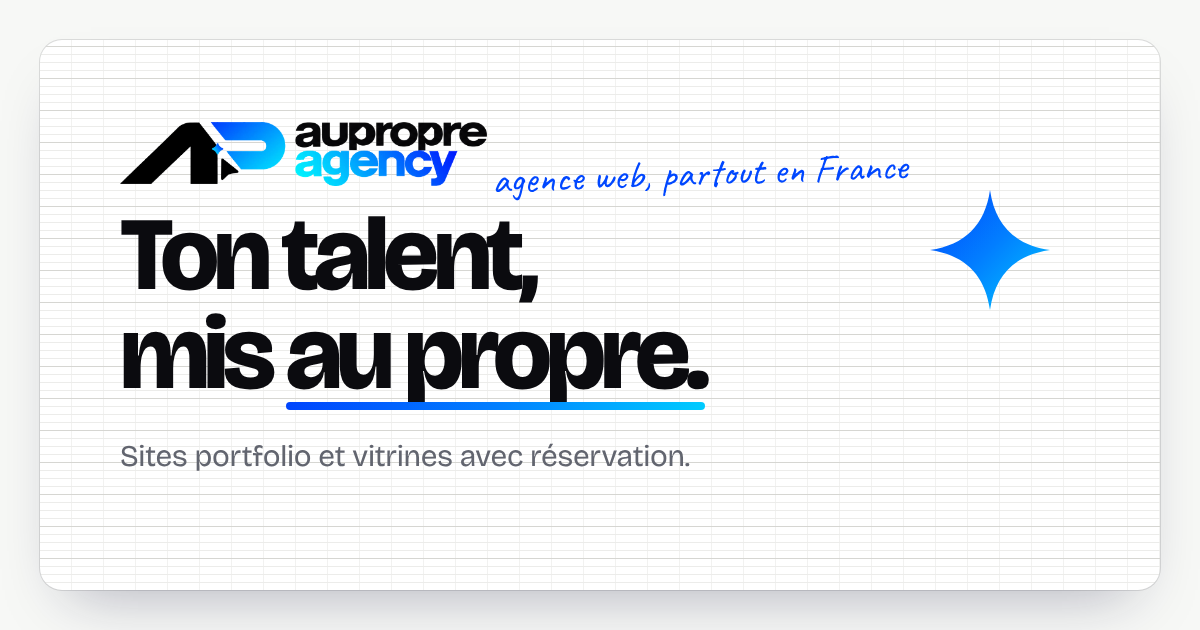
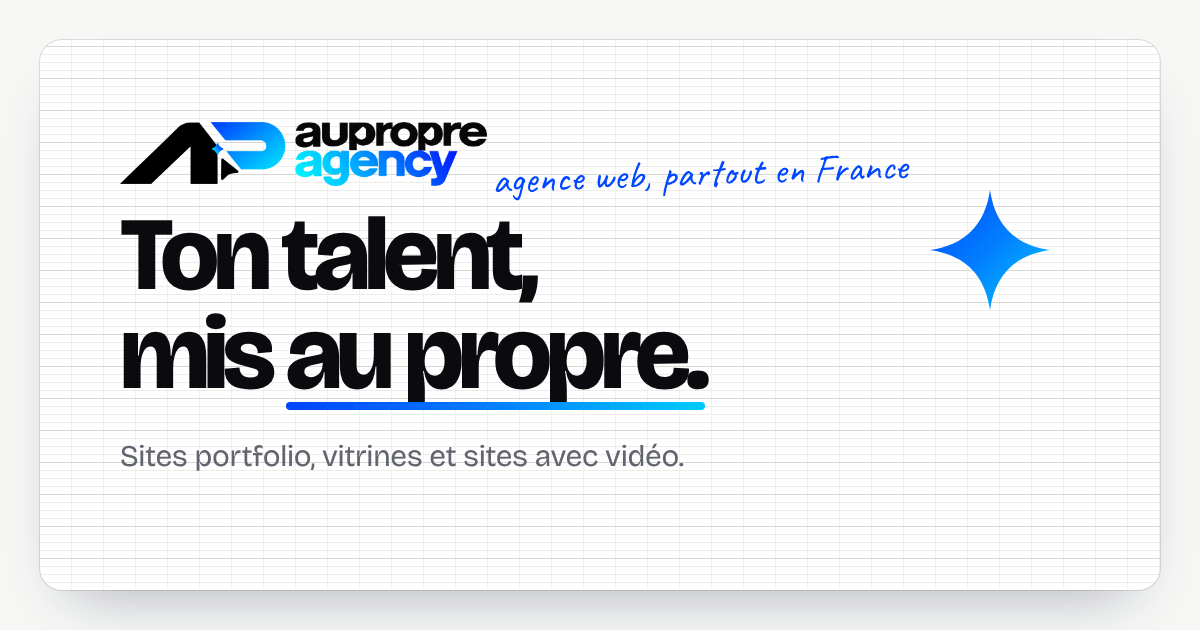
Nouvel accueil : 3 cartes brouillon → propre, cible élargie, Site + Vidéo mis en avant
Claude-Session: https://claude.ai/code/session_01BznTFMr6tEdU7bzJhxVeNe

Changed region(s): [[0.2467, 0.6937, 0.5858, 0.754]]

diff --git a/public/index.html b/public/index.html
@@ -5,20 +5,20 @@
 <meta name="viewport" content="width=device-width, initial-scale=1">
 <title>AuPropre · Agence web pour créatifs et indépendants</title>
[1 lines of base64/hex data omitted]
-<meta name="description" content="Sites portfolio et vitrines avec réservation pour les créatifs, coachs et indépendants de la culture urbaine. Partout en France.">
+<meta name="description" content="Sites portfolio, vitrines avec réservation et sites avec vidéo motion design : pour montrer ton travail, être réservé en ligne ou faire comprendre ton service. Partout en France.">
 <link rel="canonical" href="https://aupropreagency.fr/">
 <meta property="og:type" content="website">
 <meta property="og:locale" content="fr_FR">
 <meta property="og:site_name" content="AuPropre">
 <meta property="og:title" content="AuPropre · Agence web pour créatifs et indépendants">
-<meta property="og:description" content="Sites portfolio et vitrines avec réservation pour les créatifs, coachs et indépendants de la culture urbaine. Partout en France.">
+<meta property="og:description" content="Sites portfolio, vitrines avec réservation et sites avec vidéo motion design : pour montrer ton travail, être réservé en ligne ou faire comprendre ton service. Partout en France.">
 <meta property="og:url" content="https://aupropreagency.fr/">
 <meta property="og:image" content="https://aupropreagency.fr/og.png">
 <meta property="og:image:width" content="1200">
 <meta property="og:image:height" content="630">
 <meta property="og:image:alt" content="AuPropre, agence web : Ton talent, mis au propre.">
 <meta name="twitter:card" content="summary_large_image">
-<script type="application/ld+json">{"@context": "https://schema.org", "@type": "ProfessionalService", "name": "AuPropre", "description": "Sites portfolio et vitrines avec réservation pour les créatifs, coachs et indépendants de la culture urbaine. Partout en France.", "url": "https://aupropreagency.fr/", "image": "https://aupropreagency.fr/og.png", "email": "aupropre.agency@gmail.com", "areaServed": "FR", "priceRange": "290 € – 590 €"}</script>
+<script type="application/ld+json">{"@context": "https://schema.org", "@type": "ProfessionalService", "name": "AuPropre", "description": "Sites portfolio, vitrines avec réservation et sites avec vidéo motion design : pour montrer ton travail, être réservé en ligne ou faire comprendre ton service. Partout en France.", "url": "https://aupropreagency.fr/", "image": "https://aupropreagency.fr/og.png", "email": "aupropre.agency@gmail.com", "areaServed": "FR", "priceRange": "290 € – 590 €"}</script>
 <link rel="preconnect" href="https://fonts.googleapis.com">
 <link rel="preconnect" href="https://fonts.gstatic.com" crossorigin>
 <link href="https://fonts.googleapis.com/css2?family=Bricolage+Grotesque:opsz,wght@12..96,300..800&family=Caveat:wght@500;700&family=Unbounded:wght@600;800&family=Inter:wght@400;600&family=Cormorant+Garamond:ital,wght@0,500;1,500;1,600&family=Jost:wght@500&family=Fraunces:ital,wght@0,600;1,600&family=Manrope:wght@400;600&family=Anton&display=swap" rel="stylesheet">
@@ -100,6 +100,7 @@
   .pv-court{display:none}
   .offre.offre-video .marque-video{background:rgba(255,255,255,.16);color:#fff}
   .offre.offre-video .marque-video span{color:#fff}
+  .offre.offre-video .marque-video{line-height:1.4;display:grid;gap:10px}
   .pastille-video{position:relative;animation:pvHalo 3.2s ease-out infinite}
   .pv-new{position:relative;overflow:hidden;background:linear-gradient(115deg,#0044FD,#027FFF 40%,#00CCFF 60%,#0044FD);background-size:220% 100%;animation:pvFond 4s ease-in-out infinite alternate}
   .pv-new::before{content:"";position:absolute;inset:0;background:linear-gradient(100deg,transparent 30%,rgba(255,255,255,.65) 50%,transparent 70%);transform:translateX(-120%);animation:pvReflet 3.2s ease-in-out infinite}
@@ -734,6 +735,104 @@
     .tel-zone{justify-content:flex-end;padding:0 24px 0 0}
     .note-propre{left:auto;right:30px;top:6%}
   }
+
+  /* ACCUEIL : 3 cartes besoins, chacune passe du brouillon au propre */
+  .scene{height:auto}
+  .scene-sticky{position:relative;height:auto;min-height:100vh;min-height:100svh;padding-bottom:56px}
+  .hc-pile{display:grid;gap:14px;align-content:center}
+  .hc-note{font-family:var(--hand);font-size:24px;color:var(--bic);transform:rotate(-2deg);justify-self:end;display:flex;align-items:center;gap:6px;margin-bottom:-2px;opacity:0;animation:hcEntre .7s cubic-bezier(.2,.8,.2,1) .15s forwards}
+  .hc-note .etoile{width:16px;height:16px}
+  .hc{display:grid;grid-template-columns:44% 1fr;gap:20px;align-items:center;padding:14px 22px 14px 14px;border-radius:22px;text-decoration:none;position:relative;opacity:0;transform:translateY(16px);animation:hcEntre .7s cubic-bezier(.2,.8,.2,1) forwards;animation-delay:calc(.25s + var(--i) * .12s);transition:transform .35s cubic-bezier(.2,.8,.2,1),box-shadow .35s}
+  @keyframes hcEntre{to{opacity:1;transform:none}}
+  .hc-travail{background:var(--encre);color:var(--papier)}
+  .hc-reserver{background:#fff;color:var(--encre);box-shadow:inset 0 0 0 1px var(--trait)}
+  .hc-comprendre{background:var(--grad);color:#fff}
+  .hc.actif,.hc:hover{transform:translateX(-6px)}
+  .hc-travail.actif,.hc-travail:hover{box-shadow:0 24px 40px -26px rgba(11,11,15,.7)}
+  .hc-reserver.actif,.hc-reserver:hover{box-shadow:inset 0 0 0 1.5px var(--bic),0 24px 40px -28px rgba(0,70,255,.45)}
+  .hc-comprendre.actif,.hc-comprendre:hover{box-shadow:0 24px 40px -24px rgba(0,70,255,.7)}
+  .hc h3{font-size:clamp(21px,1.8vw,26px);font-weight:800;letter-spacing:-.035em;line-height:1.02}
+  .hc-texte p{font-size:14px;line-height:1.4;opacity:.78;margin:6px 0 8px}
+  .hc-lien{font-family:var(--hand);font-size:21px;line-height:1}
+  .hc-lien em{font-style:normal;font-family:var(--sans);font-size:15px;display:inline-block;transition:transform .25s}
+  .hc:hover .hc-lien em,.hc.actif .hc-lien em{transform:translateX(4px)}
+  .hc-travail .hc-lien{color:#5FD3FF}.hc-reserver .hc-lien{color:var(--bic)}
+  /* la vignette : un bout de papier à carreaux */
+  .hc-anim{height:128px;border-radius:14px;position:relative;overflow:hidden;background-color:#FBFBF9;background-image:repeating-linear-gradient(0deg,transparent 0 15px,#E4E5EA 15px 16px),repeating-linear-gradient(90deg,transparent 0 15px,rgba(228,229,234,.6) 15px 16px)}
+  .hc-travail .hc-anim{background-color:#16161B;background-image:repeating-linear-gradient(0deg,transparent 0 15px,#24242B 15px 16px),repeating-linear-gradient(90deg,transparent 0 15px,rgba(36,36,43,.7) 15px 16px)}
+  .hc-comprendre .hc-anim{background-color:rgba(255,255,255,.12);background-image:repeating-linear-gradient(0deg,transparent 0 15px,rgba(255,255,255,.12) 15px 16px),repeating-linear-gradient(90deg,transparent 0 15px,rgba(255,255,255,.08) 15px 16px)}
+  .hc-brouillon{position:absolute;inset:0;padding:22px 14px 0 16px;font-family:var(--hand);font-size:18px;line-height:1.55;color:#7A7D88;transition:opacity .45s ease,transform .5s ease}
+  .hc-travail .hc-brouillon{color:#9A9CA8}
+  .hc-comprendre .hc-brouillon{color:rgba(255,255,255,.85)}
+  .hc-brouillon p{position:relative;width:fit-content;max-width:100%;white-space:nowrap}
+  .hc-brouillon p::before{content:"— "}
+  .hc-trait{position:absolute;left:-2%;top:36%;width:104%;height:12px;overflow:visible}
+  .hc-trait path{fill:none;stroke:var(--bic);stroke-width:2.2;stroke-linecap:round;stroke-dasharray:100;stroke-dashoffset:100;transition:stroke-dashoffset .45s cubic-bezier(.6,0,.3,1)}
+  .hc-travail .hc-trait path{stroke:#5FD3FF}.hc-comprendre .hc-trait path{stroke:#fff}
+  .hc.raye .hc-trait path{stroke-dashoffset:0}
+  .hc.raye .t2 path{transition-delay:.3s}
+  .hc-propre{position:absolute;inset:0;opacity:0;transform:scale(.94);transition:opacity .5s ease,transform .55s cubic-bezier(.2,.8,.2,1);display:grid;place-items:center}
+  .hc.propre .hc-brouillon{opacity:0;transform:translateY(-8px)}
+  .hc.propre .hc-propre{opacity:1;transform:none}
+  /* propre 1 : grille de projets */
+  .hp-grille{position:absolute;inset:12px;display:grid;grid-template-columns:repeat(3,1fr);gap:7px}
+  .hp-grille i{border-radius:7px;background:rgba(255,255,255,.1)}
+  .hc-travail.propre .hp-grille i{animation:hpTuile 4.8s ease-in-out infinite}
+  .hp-grille i:nth-child(2){animation-delay:.35s!important}.hp-grille i:nth-child(3){animation-delay:.7s!important}.hp-grille i:nth-child(4){animation-delay:1.05s!important}.hp-grille i:nth-child(5){animation-delay:1.4s!important}.hp-grille i:nth-child(6){animation-delay:1.75s!important}
+  @keyframes hpTuile{0%,100%{background:rgba(255,255,255,.1);transform:scale(1)}18%{background:linear-gradient(135deg,#0044FD,#00CCFF);transform:scale(1.05)}38%{background:rgba(255,255,255,.1);transform:scale(1)}}
+  /* propre 2 : créneau réservé */
+  .hp-cal{position:absolute;inset:14px 14px auto;display:grid;grid-template-columns:repeat(4,1fr);gap:7px}
+  .hp-cal i{height:30px;border-radius:7px;background:#fff;box-shadow:inset 0 0 0 1px var(--trait)}
+  .hc-reserver.propre .hp-cal i.on{animation:hpCreneau 4.4s ease-in-out .3s infinite}
+  @keyframes hpCreneau{0%,18%{background:#fff;box-shadow:inset 0 0 0 1px var(--trait)}28%,85%{background:linear-gradient(135deg,#0044FD,#00CCFF);box-shadow:0 6px 14px -6px rgba(0,80,255,.6)}95%,100%{background:#fff}}
+  .hp-ok{position:absolute;left:50%;bottom:12px;white-space:nowrap;font-weight:700;font-size:12.5px;color:#fff;background:var(--encre);padding:6px 12px;border-radius:999px;opacity:0;transform:translate(-50%,6px)}
+  .hc-reserver.propre .hp-ok{animation:hpOk 4.4s ease-in-out .3s infinite}
+  @keyframes hpOk{0%,28%{opacity:0;transform:translate(-50%,6px)}38%,85%{opacity:1;transform:translate(-50%,0)}95%,100%{opacity:0}}
+  /* propre 3 : la vidéo se lance */
+  .hc-comprendre .hc-propre{background:rgba(0,20,90,.18)}
+  .hp-play{position:absolute;left:50%;top:44%;width:42px;height:42px;margin:-21px 0 0 -21px;border-radius:50%;background:#fff}
+  .hp-play::after{content:"";position:absolute;left:16px;top:12px;border-left:14px solid var(--bic);border-top:9px solid transparent;border-bottom:9px solid transparent}
+  .hc-comprendre.propre .hp-play{animation:hpPlay 2.2s ease-in-out infinite}
+  @keyframes hpPlay{0%,100%{box-shadow:0 0 0 0 rgba(255,255,255,.55)}60%{box-shadow:0 0 0 13px rgba(255,255,255,0)}}
+  .hp-barre{position:absolute;left:12px;right:50px;bottom:15px;height:4px;border-radius:4px;background:rgba(255,255,255,.3);overflow:hidden}
+  .hp-barre i{display:block;height:100%;width:0;background:#fff}
+  .hc-comprendre.propre .hp-barre i{animation:hpBarre 6s linear .4s infinite}
+  @keyframes hpBarre{from{width:0}to{width:100%}}
+  .hp-dur{position:absolute;right:12px;bottom:9px;font-size:11.5px;font-weight:700}
+  @media (max-width:960px){
+    .scene-sticky{min-height:0;padding-bottom:40px}
+    .hc-pile{margin-top:22px;gap:10px}
+    .hc-note{justify-self:start;font-size:21px}
+    .hc{grid-template-columns:40% 1fr;gap:14px;padding:10px 14px 10px 10px;border-radius:18px}
+    .hc.actif,.hc:hover{transform:none}
+    .hc-anim{height:112px;border-radius:11px}
+    .hc-brouillon{font-size:14px;padding:22px 6px 0 9px}
+    .hp-ok{font-size:10.5px;padding:5px 9px;bottom:9px}
+    .hc h3{font-size:18px}
+    .hc-texte p{font-size:12.5px;margin:4px 0 6px}
+    .hc-lien{font-size:18px}
+    .hp-cal i{height:24px}
+    .hp-play{width:36px;height:36px;margin:-18px 0 0 -18px}
+    .hp-play::after{left:14px;top:10px;border-left-width:12px;border-top-width:8px;border-bottom-width:8px}
+  }
+  @media (max-width:400px){.hc-texte p{display:none}.hc-anim{height:96px}}
+  @media (max-width:960px){
+    .scene-grid{gap:0}
+    .scene-texte{display:contents}
+    .scene-texte .pastille-video{order:1}.scene-texte .hero-kicker{order:2}.scene-texte h1{order:3}.scene-texte .hero-lead{order:4}
+    .hc-pile{order:5;margin:4px 0 22px}
+    .scene-texte .hero-cta{order:6}.scene-texte .hero-proof{order:7}
+    .scene-texte>*{justify-self:start}
+  }
+  @media (prefers-reduced-motion:reduce){
+    .hc,.hc-note{opacity:1;transform:none}
+    .hc .hc-brouillon{display:none}.hc .hc-propre{opacity:1;transform:none}
+    .hp-ok{opacity:1;transform:translate(-50%,0)}.hp-barre i{width:40%}
+  }
+  .hc-nouveau{display:inline-block;margin-bottom:6px;font:700 11px var(--sans);letter-spacing:.02em;color:var(--bic);background:#fff;padding:4px 9px;border-radius:999px;position:relative;overflow:hidden}
+  .hc-nouveau::after{content:"";position:absolute;inset:0;background:linear-gradient(100deg,transparent 30%,rgba(0,140,255,.25) 50%,transparent 70%);transform:translateX(-120%);animation:pvReflet 3.2s ease-in-out infinite}
+  @media (max-width:960px){.hc-nouveau{font-size:9.5px;padding:3px 7px;margin-bottom:4px}}
+  @media (prefers-reduced-motion:reduce){.hc-nouveau::after{display:none}}
 </style>
 </head>
 <body>
@@ -760,62 +859,67 @@
           <a href="#offres" class="pastille-video" id="pastille-video"><span class="pv-new">Nouveau</span><span class="pv-txt"><span class="pv-long">Site + vidéo motion design avec UPFLOW</span><span class="pv-court">Site + vidéo avec UPFLOW</span></span><span class="pv-fl" aria-hidden="true">→</span></a>
           <span class="hero-kicker">agence web, partout en France</span>
           <h1>Ton talent, <span class="nw">mis <span class="ap" id="ap">au propre.<svg class="etoile etoile-h1" viewBox="0 0 24 24" aria-hidden="true"><path d="M12 0C13 7 17 11 24 12 17 13 13 17 12 24 11 17 7 13 0 12 7 11 11 7 12 0Z" fill="url(#g-ap)"/></svg></span></span></h1>
-          <p class="hero-lead">On transforme tes stories, ton Canva et ton Linktree en <strong>un site à toi</strong>, qui donne confiance et fait réserver. Pour les créatifs, coachs et indépendants de la culture urbaine.</p>
+          <p class="hero-lead"><strong>Un site sur mesure</strong>, logo et textes compris, en ligne en 10&nbsp;jours.</p>
           <div class="hero-cta">
             <a href="#contact" class="btn btn-bic js-wa"><span class="wa-pastille" aria-hidden="true"></span>Parle-moi de ton projet</a>
             <a href="#realisations" class="btn btn-ghost">Voir les réalisations</a>
           </div>
-          <div class="hero-proof">
-            <div><b>10 jours</b>pour ta première version</div>
-            <div><b>Logo et textes</b>inclus, tu n'écris rien</div>
-            <div><b>Tout sur WhatsApp</b>du premier message au lancement</div>
-          </div>
         </div>
 
-        <div class="scene-copie">
-          <div class="feuille seyes" id="feuille">
-            <div class="brouillon" id="brouillon">
-              <p class="titre">Mon business</p>
-              <p>— mes coiffures → <span class="rature">stories à la une</span></p>
-              <p>— tarifs → <span class="rature">capture d'écran</span></p>
-              <p>— portfolio → <span class="rature">Canva 8 pages</span></p>
-              <p>— réserver → <span class="rature">« envoie un DM »</span></p>
-              <p>— liens → <span class="rature">Linktree (×12)</span></p>
-              <p class="fleche">→ personne ne trouve rien</p>
-              <div class="postit">« t'as un site&nbsp;? »<br>— une marque</div>
-            </div>
-            <div class="tel-zone" aria-hidden="true">
-              <div class="tel" aria-label="Exemple de site vitrine avec réservation">
-                <div class="tel-ecran">
-                  <span class="tel-encoche"></span>
-                  <div class="ts-barre"><i></i>ta marque<b></b></div>
-                  <div class="ts-visuel"><svg viewBox="0 0 24 24"><path d="M12 0C13 7 17 11 24 12 17 13 13 17 12 24 11 17 7 13 0 12 7 11 11 7 12 0Z" fill="#fff"/></svg><span>ton travail ici</span></div>
-                  <div class="ts-texte">
-                    <small>Ton métier · ta ville</small>
-                    <strong>Tu vois. Tu aimes. <em>Tu réserves.</em></strong>
-                    <div class="gp-btn">Réserver<svg class="curseur" viewBox="0 0 24 24" aria-hidden="true"><path d="M3 2l17 9-7.5 2L9 21z" fill="#0B0B0F" stroke="#fff" stroke-width="1.6" stroke-linejoin="round"/></svg></div>
-                  </div>
-                  <div class="ts-etapes">
-                    <div class="ts-etape"><i></i>Prestation<span>choisie</span></div>
-                    <div class="ts-etape"><i></i>Créneau<span>jeu. 14 h</span></div>
-                    <div class="ts-etape"><i></i>Acompte<span>réglé</span></div>
-                  </div>
-                </div>
+        <div class="scene-copie hc-pile" id="hc-pile">
+          <p class="hc-note" aria-hidden="true">du brouillon au propre <svg class="etoile" viewBox="0 0 24 24"><path d="M12 0C13 7 17 11 24 12 17 13 13 17 12 24 11 17 7 13 0 12 7 11 11 7 12 0Z" fill="url(#g-ap)"/></svg></p>
+          <a class="hc hc-travail" href="#offres" data-va-offre="portfolio" style="--i:0">
+            <div class="hc-anim" aria-hidden="true">
+              <div class="hc-brouillon">
+                <p><span>book → Canva 8 pages</span><svg class="hc-trait" viewBox="0 0 100 12" preserveAspectRatio="none"><path pathLength="100" d="M2 7 C25 3, 55 10, 98 5"/></svg></p>
+                <p><span>projets → stories</span><svg class="hc-trait t2" viewBox="0 0 100 12" preserveAspectRatio="none"><path pathLength="100" d="M2 6 C30 9, 60 2, 98 7"/></svg></p>
               </div>
+              <div class="hc-propre"><div class="hp-grille"><i></i><i></i><i></i><i></i><i></i><i></i></div></div>
             </div>
-            <span class="note-propre">c'est propre. <svg class="etoile" viewBox="0 0 24 24" aria-hidden="true"><path d="M12 0C13 7 17 11 24 12 17 13 13 17 12 24 11 17 7 13 0 12 7 11 11 7 12 0Z" fill="url(#g-ap)"/></svg></span>
-          </div>
-          <div class="progression" aria-hidden="true"><span>au brouillon</span><i><b></b></i><span>au propre</span></div>
+            <div class="hc-texte">
+              <h3>Montrer ton travail</h3>
+              <p>Un portfolio qui convainc une marque, une agence ou un club au premier coup d'œil.</p>
+              <span class="hc-lien">Portfolio <em>→</em></span>
+            </div>
+          </a>
+          <a class="hc hc-reserver" href="#offres" data-va-offre="vitrine" style="--i:1">
+            <div class="hc-anim" aria-hidden="true">
+              <div class="hc-brouillon">
+                <p><span>réserver → « DM-moi »</span><svg class="hc-trait" viewBox="0 0 100 12" preserveAspectRatio="none"><path pathLength="100" d="M2 7 C25 3, 55 10, 98 5"/></svg></p>
+                <p><span>tarifs → capture</span><svg class="hc-trait t2" viewBox="0 0 100 12" preserveAspectRatio="none"><path pathLength="100" d="M2 6 C30 9, 60 2, 98 7"/></svg></p>
+              </div>
+              <div class="hc-propre"><div class="hp-cal"><i></i><i></i><i></i><i class="on"></i><i></i><i></i><i></i><i></i></div><span class="hp-ok">Réservé ✓</span></div>
+            </div>
+            <div class="hc-texte">
+              <h3>Être réservé en ligne</h3>
+              <p>Tes clients choisissent un créneau, réservent et paient l'acompte, sans t'écrire.</p>
+              <span class="hc-lien">Vitrine <em>→</em></span>
+            </div>
+          </a>
+          <a class="hc hc-comprendre" href="#offres" data-va-offre="video" style="--i:2">
+            <div class="hc-anim" aria-hidden="true">
+              <div class="hc-brouillon">
+                <p><span>mon service → 3 pavés</span><svg class="hc-trait" viewBox="0 0 100 12" preserveAspectRatio="none"><path pathLength="100" d="M2 7 C25 3, 55 10, 98 5"/></svg></p>
+                <p><span>« tu fais quoi ? »</span><svg class="hc-trait t2" viewBox="0 0 100 12" preserveAspectRatio="none"><path pathLength="100" d="M2 6 C30 9, 60 2, 98 7"/></svg></p>
+              </div>
+              <div class="hc-propre"><span class="hp-play"></span><span class="hp-barre"><i></i></span><span class="hp-dur">0:30</span></div>
+            </div>
+            <div class="hc-texte">
+              <span class="hc-nouveau">Nouveau ✦</span>
+              <h3>Faire comprendre ton service</h3>
+              <p>Une vidéo de 30&nbsp;s en ouverture de ton site&nbsp;: on comprend tout de suite.</p>
+              <span class="hc-lien">Site + Vidéo <em>→</em></span>
+            </div>
+          </a>
         </div>
       </div>
-      <span class="defile" aria-hidden="true">fais défiler</span>
     </div>
   </section>
 
   <div class="bandeau" aria-hidden="true">
     <div class="bandeau-piste">
-      <span>Coiffeuses</span><span>barbers</span><span>Vidéastes</span><span>mannequins</span><span>Photographes</span><span>coachs sportifs</span><span>Marques streetwear</span><span>tatoueurs</span><span>Artistes</span><span>ongleries</span><span>Danseurs</span><span>et toi&nbsp;?</span>
-      <span>Coiffeuses</span><span>barbers</span><span>Vidéastes</span><span>mannequins</span><span>Photographes</span><span>coachs sportifs</span><span>Marques streetwear</span><span>tatoueurs</span><span>Artistes</span><span>ongleries</span><span>Danseurs</span><span>et toi&nbsp;?</span>
+      <span>Coiffeuses</span><span>barbers</span><span>Coachs</span><span>DJ</span><span>Marques streetwear</span><span>tatoueurs</span><span>Photographes</span><span>organisateurs d'événements</span><span>Formateurs</span><span>startups</span><span>Artistes</span><span>praticiens</span><span>Mannequins</span><span>et toi&nbsp;?</span>
+      <span>Coiffeuses</span><span>barbers</span><span>Coachs</span><span>DJ</span><span>Marques streetwear</span><span>tatoueurs</span><span>Photographes</span><span>organisateurs d'événements</span><span>Formateurs</span><span>startups</span><span>Artistes</span><span>praticiens</span><span>Mannequins</span><span>et toi&nbsp;?</span>
     </div>
   </div>
 
@@ -956,7 +1060,7 @@
     <div class="wrap">
       <div class="offres-tete">
         <h2>Trois offres, selon ce que tu vends.</h2>
-        <p class="intro" style="max-width:24em">Tu vends à des marques et des clubs, ou au public&nbsp;? On part de là, pas d'un template.</p>
+        <p class="intro" style="max-width:24em">Tu veux montrer ton travail, être réservé en ligne ou lancer quelque chose&nbsp;? On part de là, pas d'un template.</p>
       </div>
 
       <div class="offres-switch" role="tablist" aria-label="Choisis ton offre">
@@ -1015,17 +1119,17 @@
 
         <article class="offre offre-video">
           <span class="ov-etoile" aria-hidden="true"></span><span class="ov-etoile e2" aria-hidden="true"></span>
-          <span class="pour">pour ceux qui lancent</span>
+          <span class="pour">pour lancer ou expliquer</span>
           <h3>Site + Vidéo</h3>
-          <p class="desc">Pour les marques, artistes, DJ, organisateurs de soirées et coachs qui préparent un lancement et veulent qu'on s'en souvienne.</p>
+          <p class="desc">Pour les marques, artistes et événements qui préparent un lancement, et pour les services qu'il faut faire comprendre vite.</p>
           <ul>
             <li>Tout le contenu de l'offre Portfolio ou Vitrine</li>
             <li>Une vidéo de 30&nbsp;s signée UPFLOW, notre studio partenaire&nbsp;: motion design, 3D et sound design</li>
             <li>Intégrée en haut de ton site, dès l'ouverture</li>
             <li>Un seul interlocuteur pour le site et la vidéo</li>
-            <li>Vidéo explicative de 60&nbsp;s&nbsp;: sur demande</li>
+            <li>Besoin de plus de temps&nbsp;? Vidéo de 60&nbsp;s, sur devis</li>
           </ul>
-          <p class="marque marque-video"><span>Un drop, une sortie, un event&nbsp;?</span> La vidéo annonce ton lancement dès l'ouverture du site.</p>
+          <div class="marque marque-video"><p><span>Un drop, une sortie, un event&nbsp;?</span><br>La vidéo annonce ton lancement.</p><p><span>Un service à expliquer&nbsp;?</span><br>La vidéo le fait comprendre en 30&nbsp;secondes.</p></div>
           <div class="prix">
             <span class="lancement">Prix de lancement · 5 premiers clients</span>
             <strong><small>dès</small> 540&nbsp;€</strong>
@@ -1184,9 +1288,9 @@
   <span class="note panneau-note">on en parle&nbsp;?</span>
   <h3 id="panneau-titre">Tu veux quoi&nbsp;?</h3>
   <div class="choix" role="radiogroup" aria-label="Ton projet">
-    <button type="button" class="choix-btn" role="radio" aria-checked="false" data-choix="vitrine"><b>Un site Vitrine</b><span>pour faire réserver</span></button>
     <button type="button" class="choix-btn" role="radio" aria-checked="false" data-choix="portfolio"><b>Un Portfolio</b><span>pour montrer ton travail</span></button>
-    <button type="button" class="choix-btn" role="radio" aria-checked="false" data-choix="video"><b>Site + vidéo</b><span>avec UPFLOW</span></button>
+    <button type="button" class="choix-btn" role="radio" aria-checked="false" data-choix="vitrine"><b>Un site Vitrine</b><span>pour être réservé en ligne</span></button>
+    <button type="button" class="choix-btn" role="radio" aria-checked="false" data-choix="video"><b>Site + Vidéo</b><span>pour faire comprendre ton service</span></button>
     <button type="button" class="choix-btn" role="radio" aria-checked="false" data-choix="infos"><b>Je me renseigne</b><span>j'ai des questions</span></button>
   </div>
   <div class="bulle-zone" aria-live="polite">
@@ -1204,7 +1308,6 @@
 <script>
   const nav=document.getElementById('nav');
   const scene=document.getElementById('scene');
-  const brouillon=document.getElementById('brouillon');
   const ratures=[...document.querySelectorAll('.rature')];
   const reduit=matchMedia('(prefers-reduced-motion: reduce)');
   if('IntersectionObserver' in window){
@@ -1216,16 +1319,59 @@
   // Le seul moment orchestré du site : le brouillon se met au propre au fil du scroll
   function rendre(){
     nav.classList.toggle('scrolled',scrollY>8);
-    if(reduit.matches) return;
-    const total=scene.offsetHeight-innerHeight;
-    const p=clamp((scrollY-scene.offsetTop)/total);
-    scene.style.setProperty('--p',p);
-    ratures.forEach((r,i)=>r.style.setProperty('--s',clamp((p-.06-i*.07)/.08)));
-    brouillon.style.opacity=1-clamp((p-.5)/.12);
-    scene.style.setProperty('--t',clamp((p-.55)/.25));
-    scene.style.setProperty('--n',clamp((p-.82)/.1));
-    document.getElementById('ap').style.setProperty('--soul',clamp((p-.82)/.12));
   }
+  // Le trait sous « au propre » se dessine au chargement
+  (function(){
+    const ap=document.getElementById('ap');
+    if(reduit.matches){ap.style.setProperty('--soul',1);return;}
+    const t0=performance.now()+350;
+    (function pas(t){const v=clamp((t-t0)/800);ap.style.setProperty('--soul',1-Math.pow(1-v,3));if(v<1)requestAnimationFrame(pas)})(t0);
+  })();
+  // ACCUEIL : les 3 cartes passent du brouillon au propre, l'une après l'autre
+  const cartesHC=[...document.querySelectorAll('.hc')];
+  let hcI=-1,hcTimer=null,hcSurvol=false,hcCache=false;
+  function passeAuPropre(c){
+    c.classList.remove('propre','raye');
+    void c.offsetWidth;
+    setTimeout(()=>c.classList.add('raye'),350);
+    setTimeout(()=>c.classList.add('propre'),1250);
+  }
+  function hcSuivante(){
+    hcI=(hcI+1)%cartesHC.length;
+    cartesHC.forEach((c,k)=>c.classList.toggle('actif',k===hcI));
+    passeAuPropre(cartesHC[hcI]);
+  }
+  if(reduit.matches){cartesHC.forEach(c=>c.classList.add('propre','raye'))}
+  else{
+    // intro : les trois se mettent au propre en cascade, puis le cycle reprend doucement
+    cartesHC.forEach((c,k)=>setTimeout(()=>passeAuPropre(c),900+k*650));
+    // un seul tour de plus, puis tout reste au propre (le mouvement ne distrait plus de la lecture)
+    let tours=0;
+    setTimeout(()=>{hcI=-1;hcTimer=setInterval(()=>{
+      if(hcSurvol||hcCache||document.hidden) return;
+      if(tours>=cartesHC.length){clearInterval(hcTimer);cartesHC.forEach(c=>c.classList.remove('actif'));return;}
+      tours++;hcSuivante();
+    },4200)},900+3*650+2400);
+    // au survol, la carte rejoue son passage du brouillon au propre
+    cartesHC.forEach(c=>{
+      let enCours=false;
+      c.addEventListener('mouseenter',()=>{
+        hcSurvol=true;cartesHC.forEach(x=>x.classList.toggle('actif',x===c));
+        if(!enCours){enCours=true;passeAuPropre(c);setTimeout(()=>enCours=false,1500);}
+      });
+      c.addEventListener('mouseleave',()=>{hcSurvol=false;c.classList.remove('actif')});
+    });
+    // pause quand l'accueil n'est plus visible
+    if('IntersectionObserver' in window){
+      new IntersectionObserver(es=>es.forEach(e=>{hcCache=!e.isIntersecting}),{threshold:.2}).observe(document.getElementById('hc-pile'));
+    }
+  }
+  // Liens vers une offre précise : ouvrent le bon onglet sur mobile
+  document.querySelectorAll('[data-va-offre]').forEach(a=>a.addEventListener('click',()=>{
+    const o=a.dataset.vaOffre,g=document.querySelector('.offres-grille');g.dataset.offre=o;
+    document.querySelectorAll('.offres-switch button').forEach(x=>x.setAttribute('aria-selected',x.dataset.o===o));
+  }));
+
   // MÉTHODE : la ligne avance avec le scroll, sans jamais le bloquer
   const parcours=document.getElementById('parcours');
   const etapesP=[...parcours.querySelectorAll('.etape')];
